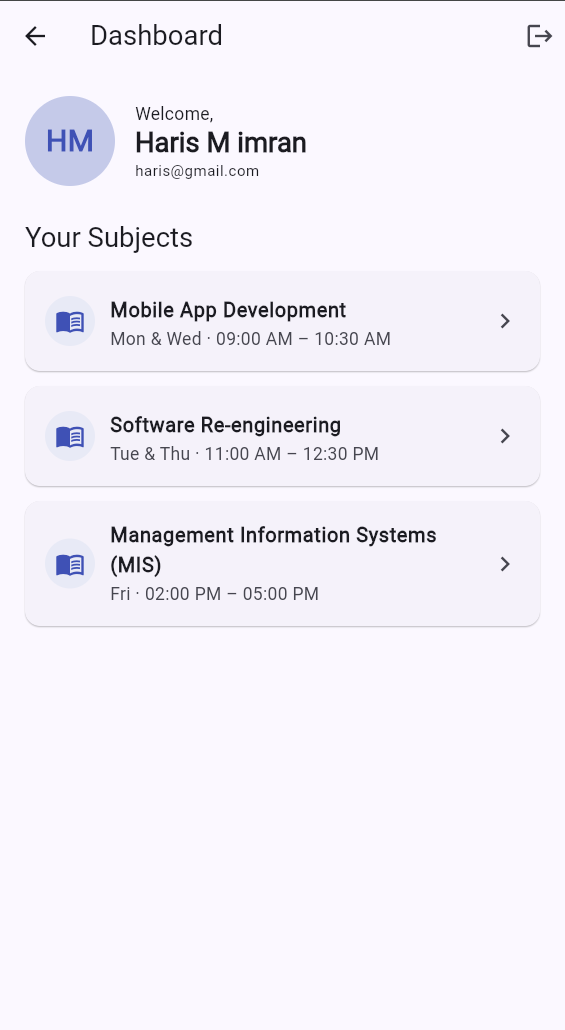
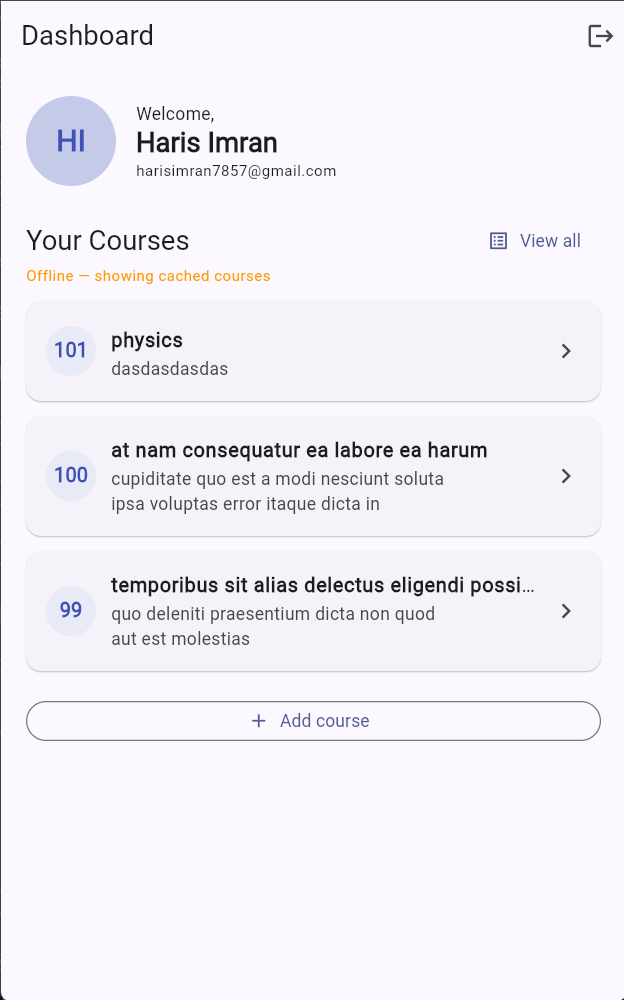
Add offline + search screenshots, update dashboard screenshot
Adds CoursesOffline.png (orange offline banner with cached list) and
CoursesSearch.png (search bar filtering courses by title) to the README
screenshots section. Replaces Dashboard.png with a capture of the new
offline-aware courses preview so it matches the Part 3 UI.

diff --git a/README.md b/README.md
@@ -145,11 +145,9 @@ the API or the local store does not require touching any UI code.
 |-------------------|---------------|
 | ![Course form](screenshots/CourseForm.png) | ![Course detail](screenshots/CourseDetail.png) |
 
-> The CRUD screenshots come from the earlier
-> `feature/course-api-integration` branch and remain accurate. New
-> screenshots showing the **offline banner** and **search bar** can be
-> dropped in as e.g. `screenshots/CoursesOffline.png` and
-> `screenshots/CoursesSearch.png` and linked from this README.
+| Offline banner (Hive cache) | Search / filter |
+|-----------------------------|-----------------|
+| ![Offline banner](screenshots/CoursesOffline.png) | ![Search filter](screenshots/CoursesSearch.png) |
 
 ## Features
 
